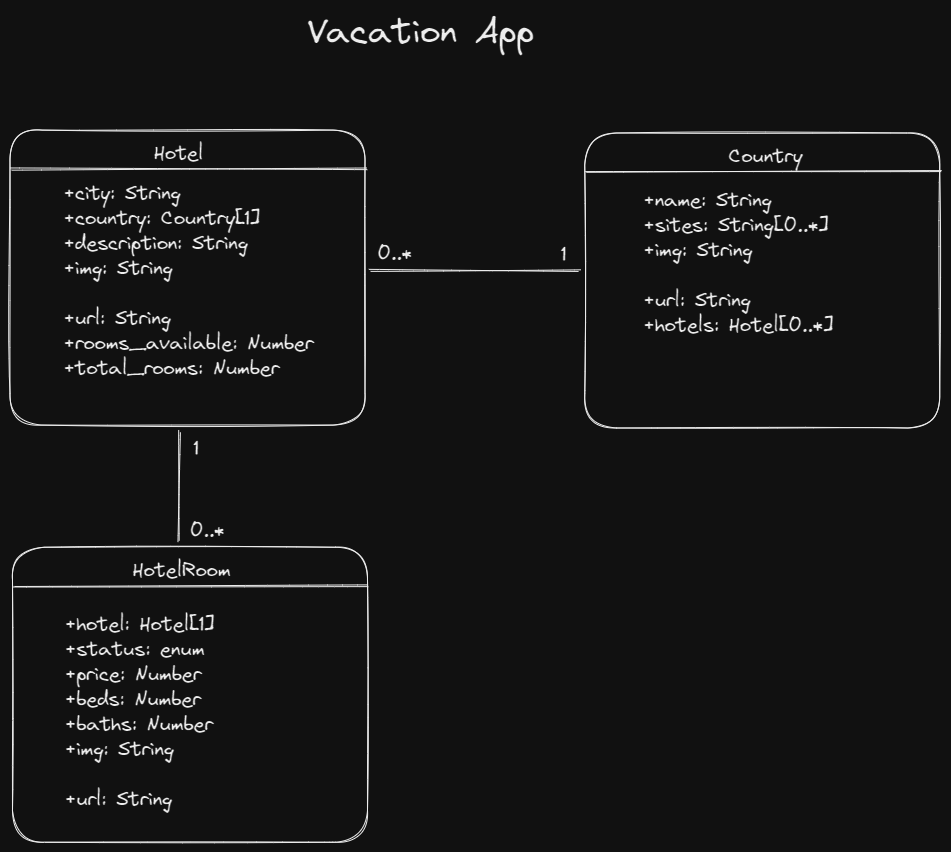
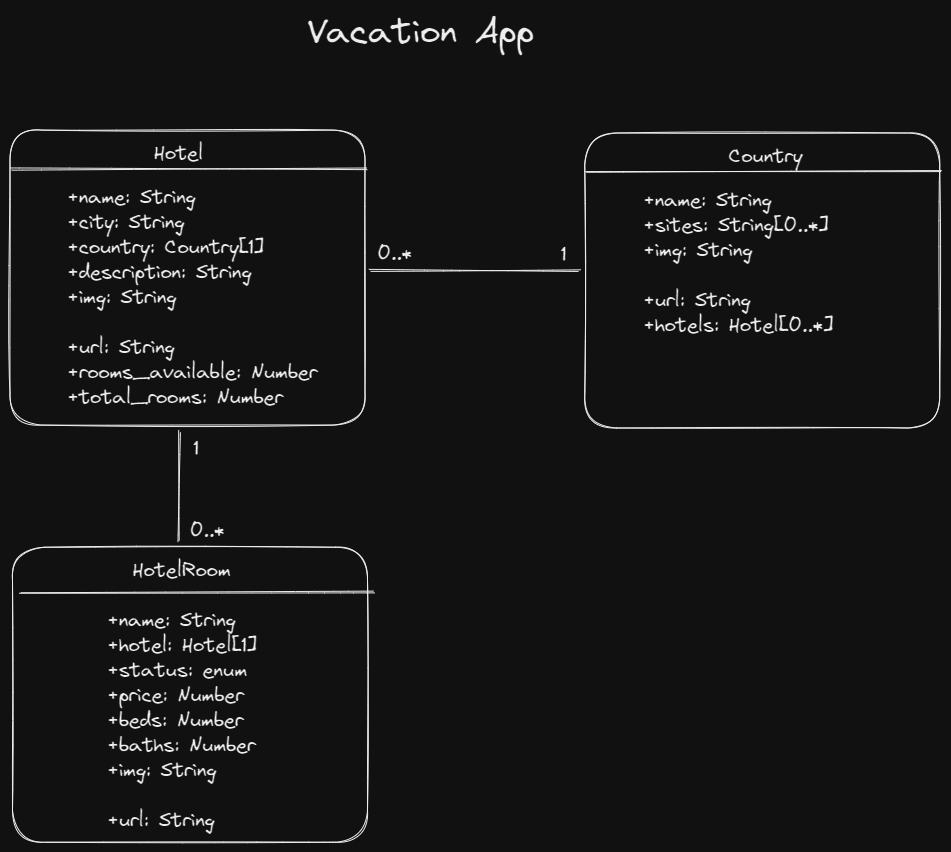
add models, populatedb.js

Changed region(s): [[0.0305, 0.6714, 0.3964, 0.9765], [0.061, 0.2136, 0.3354, 0.4883]]

diff --git a/populatedb.js b/populatedb.js
@@ -1,0 +1,193 @@
+#! /usr/bin/env node
+
+console.log(
+    'This script populates some test books, authors, genres and bookinstances to your database. Specified database as argument - e.g.: node populatedb "mongodb+srv://cooluser:coolpassword@cluster0.lz91hw2.mongodb.net/local_library?retryWrites=true&w=majority"'
+);
+
+// Get arguments passed on command line
+const userArgs = process.argv.slice(2);
+
+const Country = require("./models/country");
+const Hotel = require("./models/hotel");
+const HotelRoom = require("./models/hotelroom");
+
+const countries = [];
+const hotels = [];
+const hotel_rooms = [];
+
+const mongoose = require("mongoose");
+mongoose.set("strictQuery", false); // Prepare for Mongoose 7
+
+const mongoDB = userArgs[0];
+
+main().catch((err) => console.log(err));
+
+async function main() {
+    console.log("Debug: About to connect");
+    await mongoose.connect(mongoDB);
+    console.log("Debug: Should be connected?");
+    await createCountries();
+    await createHotels();
+    await createHotelRooms();
+    console.log("Debug: Closing mongoose");
+    mongoose.connection.close();
+}
+
+async function hotelCreate(name, city, country, description, img) {
+    const hotel = new Hotel({ name, city, country, description, img });
+    console.log(country)
+    await hotel.save();
+    hotels.push(hotel);
+    console.log(`Added hotel: ${name}`);
+}
+
+async function countryCreate(name, sites, img) {
+    const country = new Country({ name, sites, img });
+
+    await country.save();
+    countries.push(country);
+    console.log(`Added country: ${name}`);
+}
+
+async function hotelRoomCreate(name, hotel, status, price, beds, baths, img) {
+    const hotelroom = new HotelRoom({
+        name,
+        hotel,
+        status,
+        price,
+        beds,
+        baths,
+        img,
+    });
+
+    await hotelroom.save();
+    hotel_rooms.push(hotelroom);
+    console.log(`Added hotelroom: ${name}`);
+}
+
+async function createCountries() {
+    console.log("Adding countries");
+    await Promise.all([
+        countryCreate(
+            "England",
+            [
+                "The Tower of London",
+                "Stonehenge",
+                "The British Museum",
+                "The Lake District",
+            ],
+            "https://images.unsplash.com/photo-1599833975787-5c143f373c30?ixlib=rb-4.0.3&ixid=MnwxMjA3fDB8MHxwaG90by1wYWdlfHx8fGVufDB8fHx8&auto=format&fit=crop&w=2128&q=80"
+        ),
+        countryCreate(
+            "France",
+            [
+                "Eiffel Tower",
+                "Louvre Museum",
+                "Palace of Versailles",
+                "Mont Saint-Michel",
+                "French Riviera",
+            ],
+            "https://images.unsplash.com/photo-1471623432079-b009d30b6729?ixid=MnwxMjA3fDB8MHxzZWFyY2h8Mnx8ZnJhbmNlJTIwY291bnRyeXxlbnwwfHwwfHw%3D&auto=format&fit=crop&w=500&q=60"
+        ),
+        countryCreate(
+            "USA",
+            [
+                "Statue of Liberty",
+                "Central Park",
+                "Empire State Building",
+                "Times Square",
+                "Metropolitan Museum of Art",
+            ],
+            "https://images.unsplash.com/photo-1582643505577-a42ff6605b67?ixid=MnwxMjA3fDB8MHxzZWFyY2h8Mnx8bmV3JTIweW9yayUyMHNob3BwaW5nJTIwY291bnRyeXxlbnwwfHwwfHw%3D&auto=format&fit=crop&w=500&q=60"
+        ),
+    ]);
+}
+
+async function createHotels() {
+    console.log("Adding hotels");
+    await Promise.all([
+        hotelCreate(
+            "Holiday Inn",
+            "London",
+            countries[0],
+            "A nice hotel",
+            "https://images.unsplash.com/photo-1547473078-cbab237054c0?ixlib=rb-4.0.3&ixid=MnwxMjA3fDB8MHxwaG90by1wYWdlfHx8fGVufDB8fHx8&auto=format&fit=crop&w=1632&q=80"
+        ),
+        hotelCreate(
+            "Hilton",
+            "France",
+            countries[1],
+            "A nice hotel",
+            "https://images.unsplash.com/photo-1471623432079-b009d30b6729?ixlib=rb-4.0.3&ixid=MnwxMjA3fDB8MHxwaG90by1wYWdlfHx8fGVufDB8fHx8&auto=format&fit=crop&w=2070&q=80"
+        ),
+        hotelCreate(
+            "Marriot",
+            "New York",
+            countries[2],
+            "A nice hotel",
+            "https://images.unsplash.com/photo-1582643505577-a42ff6605b67?ixlib=rb-4.0.3&ixid=MnwxMjA3fDB8MHxwaG90by1wYWdlfHx8fGVufDB8fHx8&auto=format&fit=crop&w=2070&q=80"
+        ),
+    ]);
+}
+
+async function createHotelRooms() {
+    console.log("Adding hotel rooms");
+    await Promise.all([
+        hotelRoomCreate(
+            "The Peregrine",
+            hotels[0],
+            "Available",
+            119.90,
+            1,
+            1,
+            "https://images.unsplash.com/photo-1618773928121-c32242e63f39?ixlib=rb-4.0.3&ixid=MnwxMjA3fDB8MHxwaG90by1wYWdlfHx8fGVufDB8fHx8&auto=format&fit=crop&w=1470&q=80",
+        ),
+        hotelRoomCreate(
+            "The Dove",
+            hotels[0],
+            "Available",
+            174.90,
+            2,
+            2,
+            "https://images.unsplash.com/photo-1595576508898-0ad5c879a061?ixlib=rb-4.0.3&ixid=MnwxMjA3fDB8MHxwaG90by1wYWdlfHx8fGVufDB8fHx8&auto=format&fit=crop&w=1974&q=80",
+        ),
+        hotelRoomCreate(
+          "The Peregrine",
+          hotels[1],
+          "Available",
+          119.90,
+          1,
+          1,
+          "https://images.unsplash.com/photo-1618773928121-c32242e63f39?ixlib=rb-4.0.3&ixid=MnwxMjA3fDB8MHxwaG90by1wYWdlfHx8fGVufDB8fHx8&auto=format&fit=crop&w=1470&q=80",
+      ),
+      hotelRoomCreate(
+          "The Dove",
+          hotels[1],
+          "Available",
+          174.90,
+          2,
+          2,
+          "https://images.unsplash.com/photo-1595576508898-0ad5c879a061?ixlib=rb-4.0.3&ixid=MnwxMjA3fDB8MHxwaG90by1wYWdlfHx8fGVufDB8fHx8&auto=format&fit=crop&w=1974&q=80",
+      ),
+      hotelRoomCreate(
+        "The Crow",
+        hotels[1],
+        "Available",
+        99.90,
+        1,
+        1,
+        "https://images.unsplash.com/photo-1595576508898-0ad5c879a061?ixlib=rb-4.0.3&ixid=MnwxMjA3fDB8MHxwaG90by1wYWdlfHx8fGVufDB8fHx8&auto=format&fit=crop&w=1974&q=80",
+    ),
+      hotelRoomCreate(
+        "The Peregrine",
+        hotels[2],
+        "Available",
+        119.90,
+        1,
+        1,
+        "https://images.unsplash.com/photo-1618773928121-c32242e63f39?ixlib=rb-4.0.3&ixid=MnwxMjA3fDB8MHxwaG90by1wYWdlfHx8fGVufDB8fHx8&auto=format&fit=crop&w=1470&q=80",
+    ),
+    
+    ]);
+}
+

diff --git a/app.js b/app.js
@@ -1,13 +1,24 @@
-var createError = require('http-errors');
-var express = require('express');
-var path = require('path');
-var cookieParser = require('cookie-parser');
-var logger = require('morgan');
+const createError = require('http-errors');
+const express = require('express');
+const path = require('path');
+const cookieParser = require('cookie-parser');
+const logger = require('morgan');
 
-var indexRouter = require('./routes/index');
-var usersRouter = require('./routes/users');
+const indexRouter = require('./routes/index');
+const usersRouter = require('./routes/users');
+require('dotenv').config();
 
-var app = express();
+const app = express();
+
+// Set up mongoose connection
+const mongoose = require("mongoose");
+mongoose.set("strictQuery", false);
+const mongoDB = process.env.MONGO_URL;
+
+main().catch((err) => console.log(err));
+async function main() {
+  await mongoose.connect(mongoDB);
+}
 
 // view engine setup
 app.set('views', path.join(__dirname, 'views'));

diff --git a/models/hotelroom.js b/models/hotelroom.js
@@ -1,0 +1,23 @@
+const mongoose = require("mongoose");
+
+const Schema = mongoose.Schema;
+
+const HotelRoomSchema = new Schema({
+  name: { type: String, required: true, maxLength: 100 },
+  hotel: { type: Schema.Types.ObjectId, ref: "Hotel", required: true },
+  status: {type: String, required: true, enum: ["Available", "Booked"]},
+  price: { type: Number, required: true},
+  beds: { type: Number, required: true},
+  baths: { type: Number, required: true},
+  img: { type: String, required: true},
+  
+});
+
+// Virtual for author's URL
+HotelRoomSchema.virtual("url").get(function () {
+  // We don't use an arrow function as we'll need the this object
+  return `/hotel/room/${this._id}`;
+});
+
+// Export model
+module.exports = mongoose.model("HotelRoom", HotelRoomSchema);

diff --git a/models/hotel.js b/models/hotel.js
@@ -1,0 +1,21 @@
+const mongoose = require("mongoose");
+
+const Schema = mongoose.Schema;
+
+const HotelSchema = new Schema({
+  name: { type: String, required: true, maxLength: 100 },
+  city: { type: String, required: true, maxLength: 100 },
+  country: { type: Schema.Types.ObjectId, ref: "Country", required: true },
+  description: { type: String, required: true, maxLength: 100 },
+  img: { type: String, required: true},
+  
+});
+
+// Virtual for author's URL
+HotelSchema.virtual("url").get(function () {
+  // We don't use an arrow function as we'll need the this object
+  return `/hotel/${this._id}`;
+});
+
+// Export model
+module.exports = mongoose.model("Hotel", HotelSchema);

diff --git a/models/country.js b/models/country.js
@@ -1,0 +1,19 @@
+const mongoose = require("mongoose");
+
+const Schema = mongoose.Schema;
+
+const CountrySchema = new Schema({
+  name: { type: String, required: true, maxLength: 100 },
+  sites: [{ type: String, required: true, maxLength: 100 }],
+  img: { type: String, required: true, maxLength: 200 },
+  
+});
+
+// Virtual for author's URL
+CountrySchema.virtual("url").get(function () {
+  // We don't use an arrow function as we'll need the this object
+  return `/country/${this._id}`;
+});
+
+// Export model
+module.exports = mongoose.model("Country", CountrySchema);
